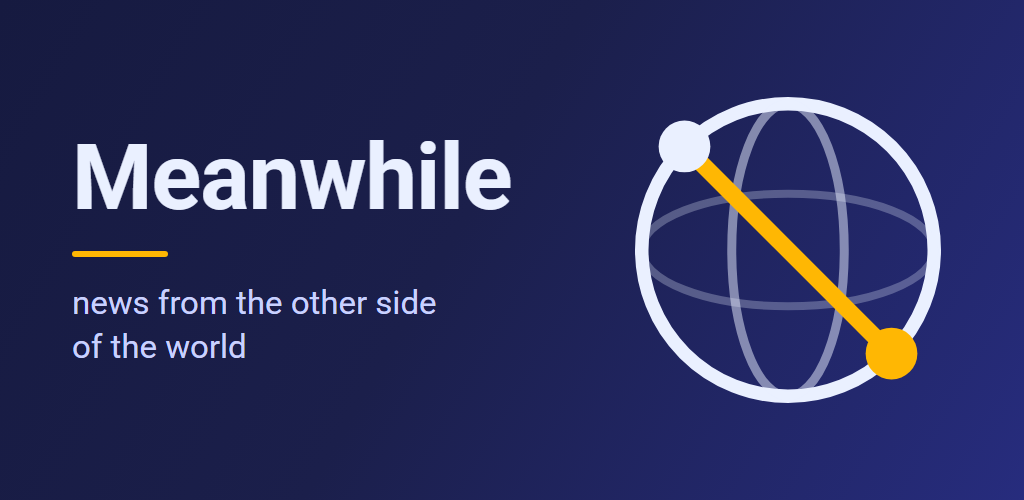
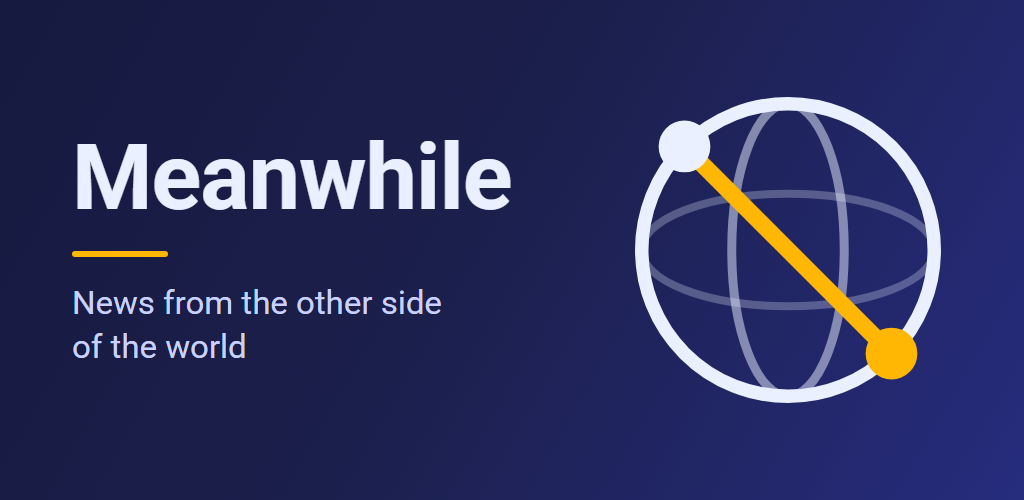
Tagline in sentence case, in the app and the feature graphic (#39)
* Tagline: sentence case, to match the rest of the app's text (#38)

* Feature graphic: sentence-case tagline, re-rendered (#38)

---------

Changed region(s): [[0.0625, 0.57, 0.4375, 0.63]]

diff --git a/docs/play-store/feature-graphic.html b/docs/play-store/feature-graphic.html
@@ -11,7 +11,7 @@
   svg { position: absolute; right: 56px; top: 70px; width: 360px; height: 360px; }
 </style></head>
 <body>
-  <div class="text"><h1>Meanwhile</h1><div class="bar"></div><p>news from the other side<br>of the world</p></div>
+  <div class="text"><h1>Meanwhile</h1><div class="bar"></div><p>News from the other side<br>of the world</p></div>
   <svg viewBox="22 22 64 64" aria-hidden="true">
     <circle cx="54" cy="54" r="26" fill="none" stroke="#EAF0FF" stroke-width="2.4"/>
     <ellipse cx="54" cy="54" rx="10" ry="26" fill="none" stroke="#EAF0FF" stroke-opacity="0.5" stroke-width="1.6"/>

diff --git a/app/src/main/kotlin/tt/co/jesses/meanwhile/ui/Messages.kt b/app/src/main/kotlin/tt/co/jesses/meanwhile/ui/Messages.kt
@@ -11,7 +11,7 @@ import tt.co.jesses.meanwhile.core.Recency
  */
 
 /** What the app is, in one line. Shown under the app name on the main screen and on the location intro. */
-const val TAGLINE = "news from the other side of the world"
+const val TAGLINE = "News from the other side of the world"
 
 fun Progress.text(): String = when (this) {
     Progress.Locating -> "Getting your location…"
